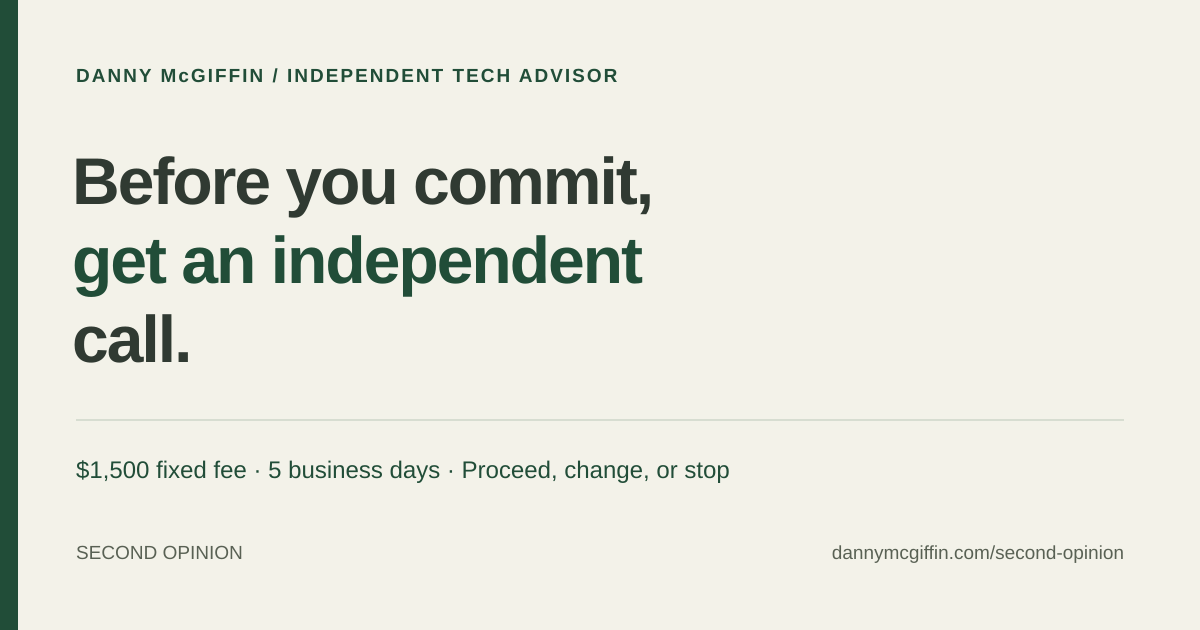
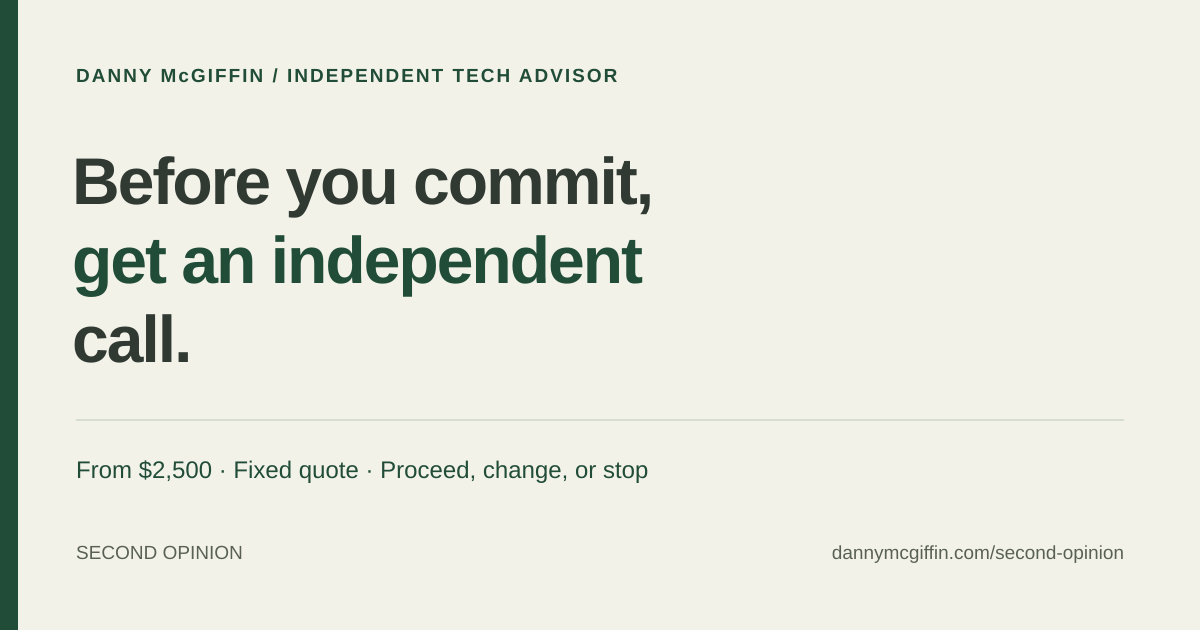
Reprice Second Opinion and Tech Audit; simplify homepage
- Second Opinion: from $2,500 with a fixed quote; Tech Audit: $5,000 fixed
- New Tech Audit one-liner
- Router phrases link without offer labels; remove bridge box and the
  note under the service cards
- Regenerate share images and update llms.txt and tests

Changed region(s): [[0.0617, 0.7238, 0.6167, 0.7841]]

diff --git a/src/styles/pages/index.css b/src/styles/pages/index.css
@@ -61,9 +61,7 @@ body.consulting-home { background: #ffffff; color: var(--advisor-ink); font-fami
 }
 
 .consulting-router { list-style: none; margin: 0; padding: 0; display: grid; grid-template-columns: repeat(2, minmax(0, 1fr)); gap: 12px 28px; }
-.consulting-router a { display: flex; flex-direction: column; gap: 6px; height: 100%; padding: 16px 0; border-top: 1px solid var(--advisor-line); color: var(--advisor-ink); }
-.consulting-router a span { font-size: clamp(19px, 1.7vw, 23px); line-height: 1.35; letter-spacing: -.02em; }
-.consulting-router a small { color: var(--advisor-green); font-size: 12px; font-weight: 700; text-transform: uppercase; letter-spacing: .04em; }
+.consulting-router a { display: block; height: 100%; padding: 16px 0; border-top: 1px solid var(--advisor-line); color: var(--advisor-ink); font-size: clamp(19px, 1.7vw, 23px); line-height: 1.35; letter-spacing: -.02em; }
 .consulting-bridge { margin: 4px 0 30px; padding: 26px 30px; border-left: 3px solid var(--advisor-green); background: var(--advisor-surface); max-width: 76ch; }
 .consulting-bridge p { font-size: 18px; line-height: 1.55; }
 .consulting-bridge p + p { margin-top: 10px; color: var(--advisor-green); }

diff --git a/src/offers.ts b/src/offers.ts
@@ -15,8 +15,8 @@ export const offers: readonly Offer[] = [
 		slug: 'tech-audit',
 		name: 'Tech Audit',
 		href: '/tech-audit/',
-		oneLiner: 'Find out what your software, subscriptions, and processes actually cost, what to keep, and what to cut.',
-		price: '$3,500 fixed fee',
+		oneLiner: 'Discover what your software and subscriptions actually cost, how to make the most of what you have, and where to focus next.',
+		price: '$5,000 fixed fee',
 		duration: '10 business days',
 		triggers: ['“I’m not even sure what we’re paying for anymore.”'],
 	},
@@ -25,7 +25,7 @@ export const offers: readonly Offer[] = [
 		name: 'Second Opinion',
 		href: '/second-opinion/',
 		oneLiner: 'An independent call on a big system purchase or troubled implementation before you commit more money.',
-		price: '$1,500 fixed fee',
+		price: 'From $2,500, fixed quote',
 		duration: '5 business days',
 		triggers: ['“We need an ERP.”', '“The vendor says this is just how the system works.”', '“We’ve already spent too much for this not to work.”'],
 	},

diff --git a/scripts/og-images.py b/scripts/og-images.py
@@ -15,8 +15,8 @@ CARDS = {
     "default": (["Straight answers about", "your business", "technology."], 1, "Tech Audit · Second Opinion · AI Opportunity · Data Connection", "VENDOR-NEUTRAL TECH ADVICE", ""),
     "home": (["Straight answers about", "your business", "technology."], 1, "Tech Audit · Second Opinion · AI Opportunity · Data Connection", "VENDOR-NEUTRAL TECH ADVICE", ""),
     "about": (["I help leaders make", "expensive technology", "decisions well."], 1, "Strategy, operations, systems, and the people who run them", "ABOUT", "about"),
-    "tech-audit": (["Find out what your", "technology actually", "costs, and what it’s worth."], 1, "$3,500 fixed fee · 10 business days · Money-back guarantee", "TECH AUDIT", "tech-audit"),
-    "second-opinion": (["Before you commit,", "get an independent", "call."], 1, "$1,500 fixed fee · 5 business days · Proceed, change, or stop", "SECOND OPINION", "second-opinion"),
+    "tech-audit": (["Find out what your", "technology actually", "costs, and what it’s worth."], 1, "$5,000 fixed fee · 10 business days · Money-back guarantee", "TECH AUDIT", "tech-audit"),
+    "second-opinion": (["Before you commit,", "get an independent", "call."], 1, "From $2,500 · Fixed quote · Proceed, change, or stop", "SECOND OPINION", "second-opinion"),
     "ai-opportunity": (["Figure out what AI is", "actually worth doing", "in your business."], 1, "$5,000 fixed fee · 10 business days · A map of what comes next", "AI OPPORTUNITY", "ai-opportunity"),
     "data-connection": (["Connect what you have", "without buying", "a new system."], 1, "From $7,500 · Fixed quote · Typically 3–6 weeks", "DATA CONNECTION", "data-connection"),
     "case-studies": (["What I found,", "what we decided,", "and what happened."], 1, "Four case studies, from a $2.45M ERP path to a $250M program", "CASE STUDIES", "case-studies"),
